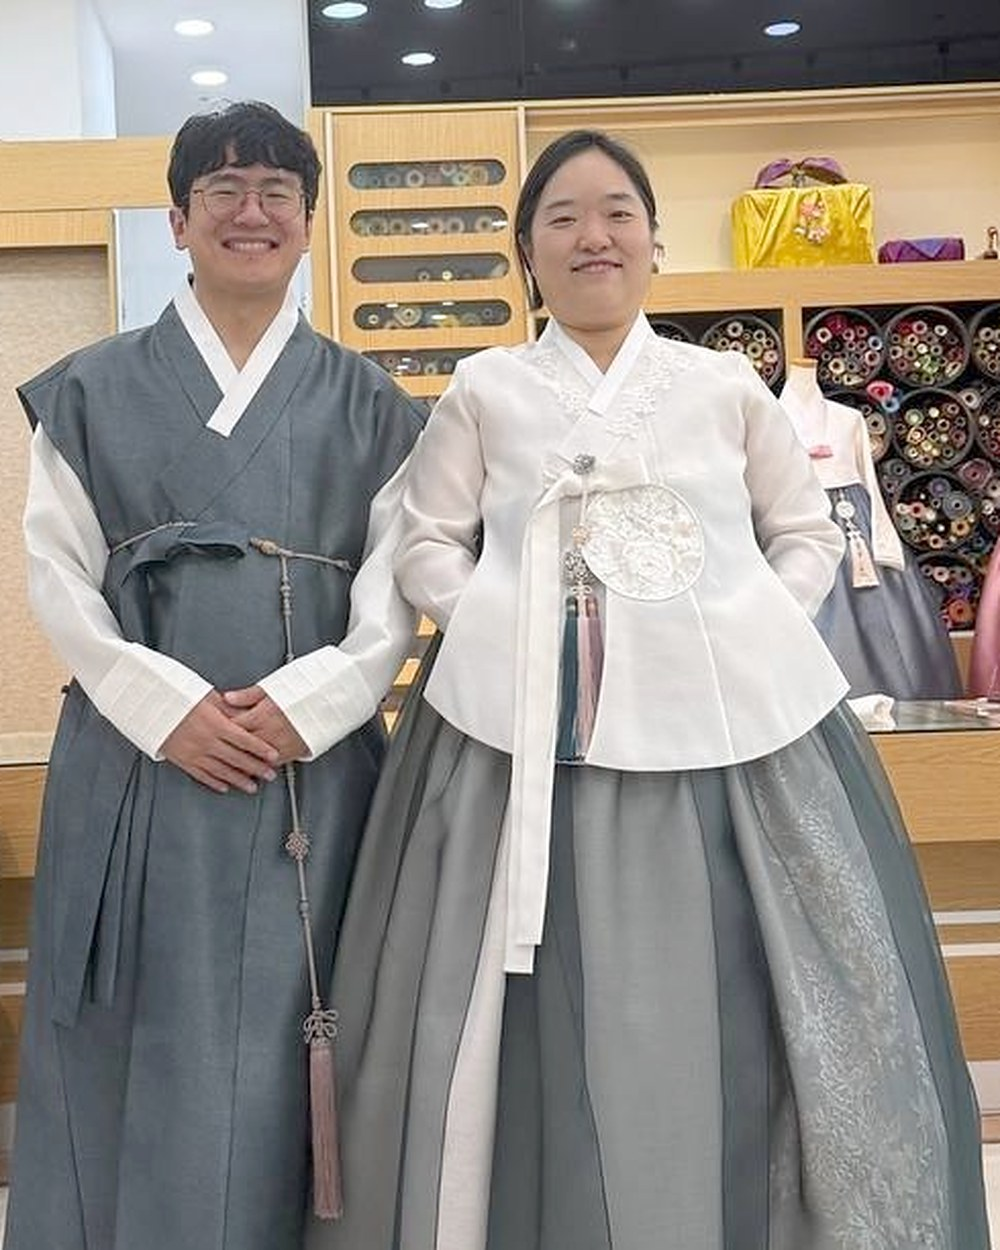
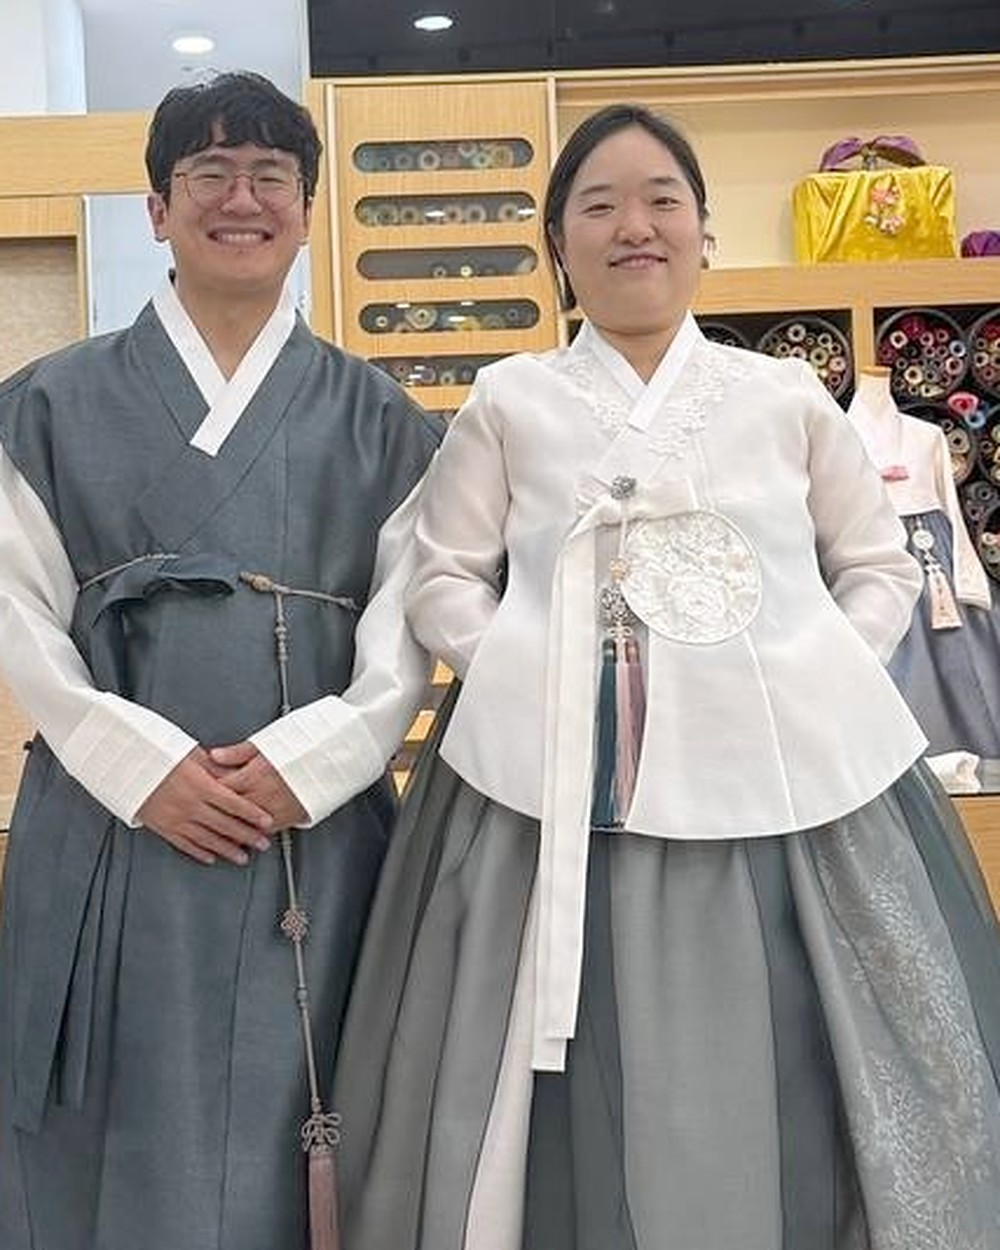
한복 사진 상반신으로 더 자르기, 상견례 사진 얼굴 빛반사 줄이고 설명 고치기
Claude-Session: https://claude.ai/code/session_017K9GnC2GtsbrWXMFBbFELB

diff --git a/index.html b/index.html
@@ -865,8 +865,8 @@ const CONFIG = {
             en:"Under a tunnel of cherry blossom the two lean cheek to cheek, Ji's arm around Doyeon's shoulder." } },
     { src:"images/photo-12.jpg", date:"2026. 5. 30.",
       caption:{ ko:"상견례", en:"Our families meet" }, wide:true,
-      alt:{ ko:"한옥 식당에서 두 사람과 어른 네 분이 상을 둘러앉아 모두 손가락 하트를 하며 웃고 있습니다.",
-            en:"In a hanok restaurant, the two and four elders sit around the table, all smiling and making finger hearts." } },
+      alt:{ ko:"한옥 식당에서 상을 둘러앉아 모두 손가락 하트를 하며 웃고 있습니다. 앞쪽 왼편에 이도연, 오른편에 엄지가 있고, 뒤쪽에 양가 어르신 세 분이 앉아 계십니다.",
+            en:"Around a table in a hanok restaurant, everyone smiles and makes finger hearts: Doyeon at front left, Ji at front right, and three elders from both families behind them." } },
     { src:"images/photo-6.jpg", date:"2026. 7. 12.",
       caption:{ ko:"한복 고른 날", en:"The day we chose our hanbok" },
       alt:{ ko:"한복 대여점 앞에 두 사람이 나란히 서서 웃고 있습니다. 엄지는 회색 두루마기에 흰 동정을, 이도연은 흰 저고리에 회색 치마를 입었습니다.",
